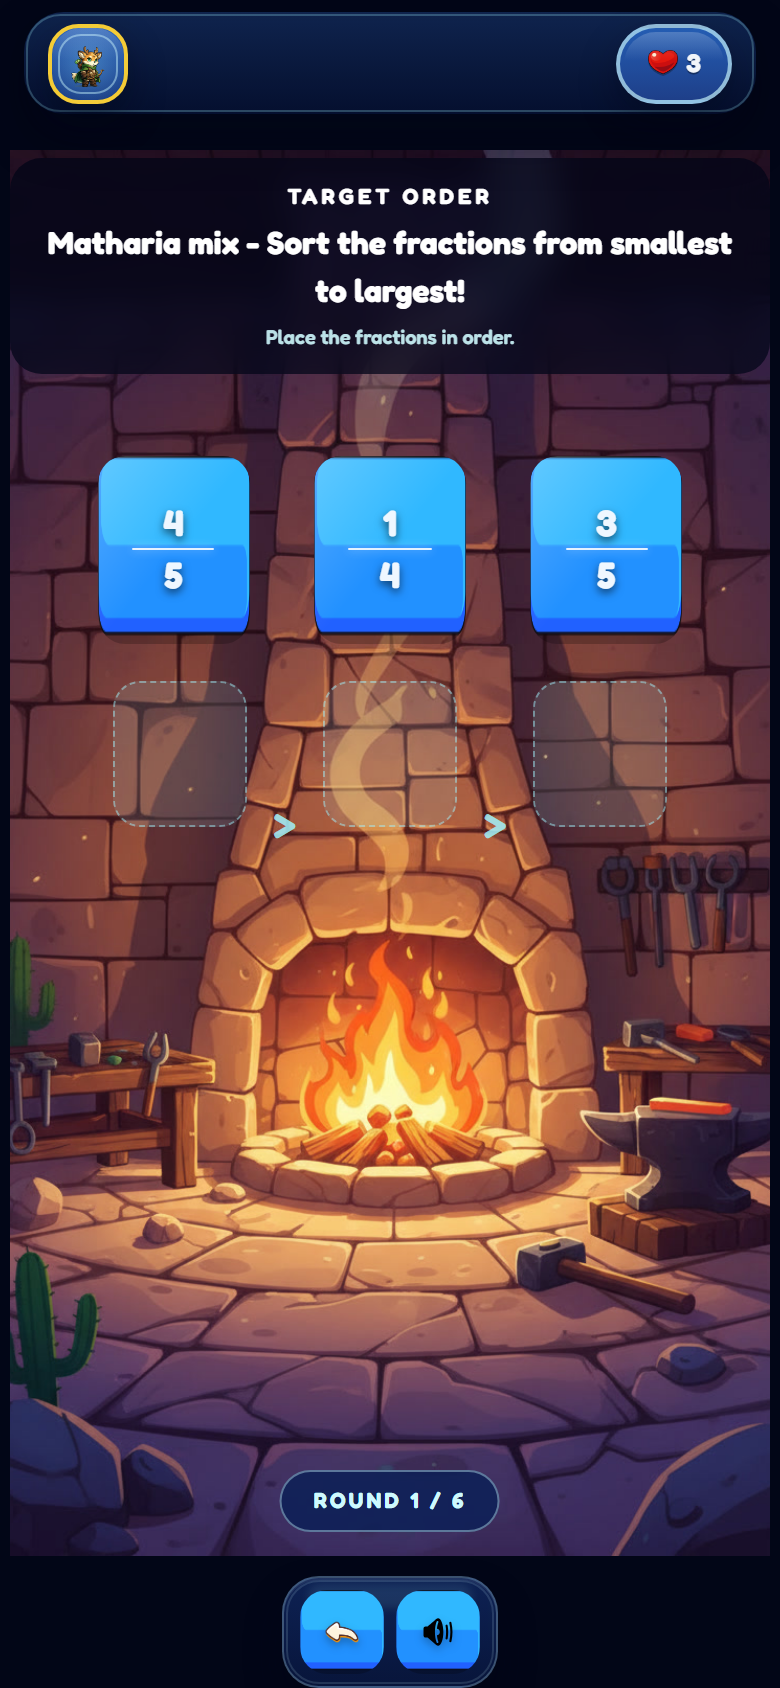
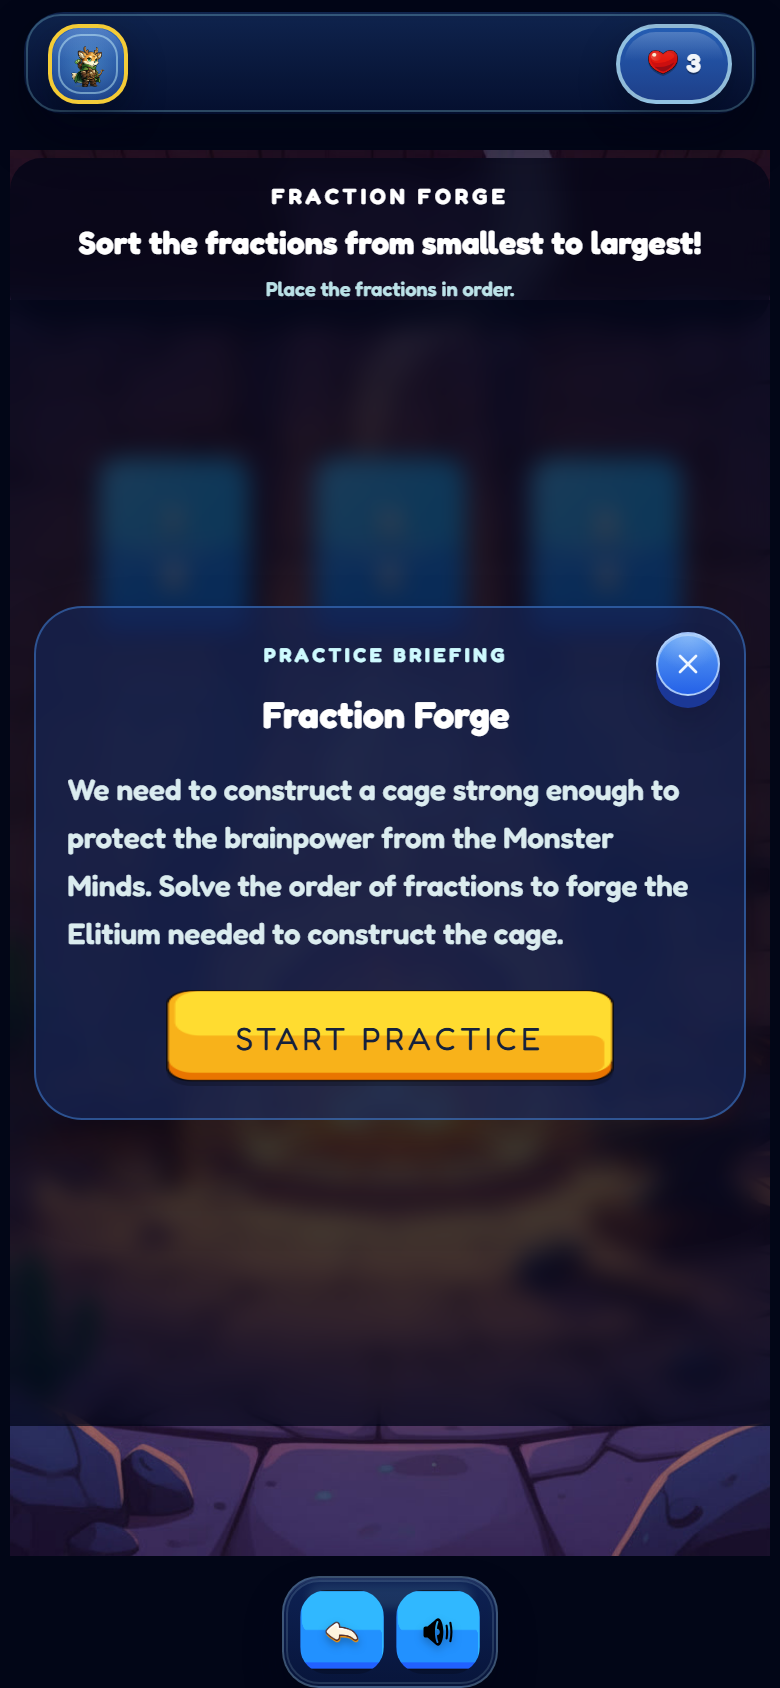
up

diff --git a/src/games/FractionMatchGame.tsx b/src/games/FractionMatchGame.tsx
@@ -2,6 +2,7 @@ import React, { useCallback, useEffect, useMemo, useRef, useState } from 'react'
 import { CircleDollarSign, ChevronLeft } from 'lucide-react';
 import { AnimatePresence, motion } from 'motion/react';
 import GameplaySceneBackdrop from '../components/GameplaySceneBackdrop';
+import factorFrenzyBackground from '../assets/maps/backgroundsforgames/Factor Frenzy.jpg';
 
 interface FractionMatchGameProps {
   levelId: number;
@@ -183,6 +184,7 @@ const BevelledGem: React.FC<{
   return (
     <motion.button
       type="button"
+      data-button-skin="none"
       initial={{ scale: 0, opacity: 0 }}
       animate={{
         scale: isSelected ? 1.12 : 1,
@@ -236,7 +238,11 @@ const MatchGameShell: React.FC<{
 }) => {
   return (
     <div className="relative h-full w-full select-none overflow-hidden font-sans text-white">
-      <GameplaySceneBackdrop gameType={variantGameType} className="opacity-[0.96]" />
+      <GameplaySceneBackdrop
+        gameType={variantGameType}
+        backgroundOverride={factorFrenzyBackground}
+        className="opacity-[0.96]"
+      />
 
       <div className="pointer-events-none absolute inset-0">
         {[...Array(20)].map((_, idx) => (
